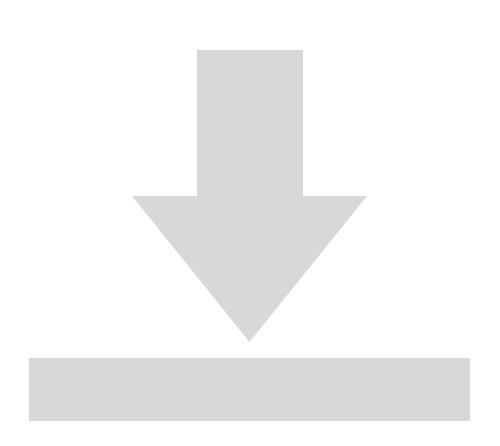
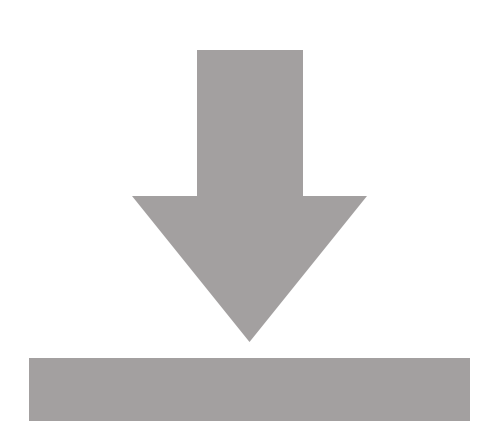
Some cleans up style a little

Changed region(s): [[0.27, 0.0874, 0.75, 0.7578], [0.06, 0.787, 0.96, 0.9619]]

diff --git a/src/public/webhook.js b/src/public/webhook.js
@@ -103,25 +103,8 @@ function getUrlVars() {
     See: https://dvcs.w3.org/hg/webperf/raw-file/tip/specs/HAR/Overview.html
 **/
 function saveHTTPArchive() {
-    console.log('TODO: saveHTTPArchive()');
-    
-    /**
-    "entries": [
-        {
-            "pageref": "page_0",
-            "startedDateTime": "2009-04-16T12:07:23.596Z",
-            "time": 50,
-            "request": {...},
-            "response": {...},
-            "cache": {...},
-            "timings": {},
-            "serverIPAddress": "10.0.0.1",
-            "connection": "52492",
-            "comment": ""
-        }
-    ]
-    
-    **/
+    //console.log('TODO: saveHTTPArchive()');
+    // Very basic support for saving web hook requests to HTTP Archive (.har) format
     
     var data = {
             log : { 

diff --git a/src/public/index.html b/src/public/index.html
@@ -19,7 +19,7 @@
     <div class="container">
         <div class="requestlist">
             <div style="overflow:auto;">
-                <div class="headerText">Requests  <a id='archiver' onClick='saveHTTPArchive();'><img width="40px" height="40px" src="download_icon.png"/></a></div>
+                <div class="headerText">Requests  <a class='archiver' id='archiver' onClick='saveHTTPArchive();'><img class='archiver' src="download_icon.png"/></a></div>
             </div>
             <div class="textareawrapper">
                 <ul id="requestItems">

diff --git a/src/public/style.css b/src/public/style.css
@@ -15,6 +15,12 @@ li:hover {
     line-height: 2;
 }
 
+.archiver {
+    width: 25px;
+    height: 25px;
+    float: left;
+}
+
 .footerText {
     position: absolute;
     bottom: 0;
@@ -77,4 +83,6 @@ li:hover {
     background-color: #ffffff;
     box-shadow: 0 1px 3px rgba(0,0,0,0.12), 0 1px 2px rgba(0,0,0,0.24);
 }
+
+
 
